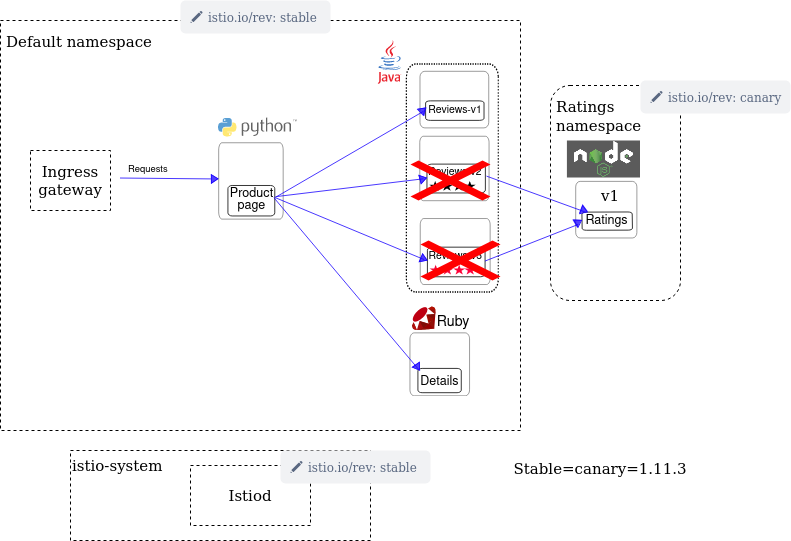
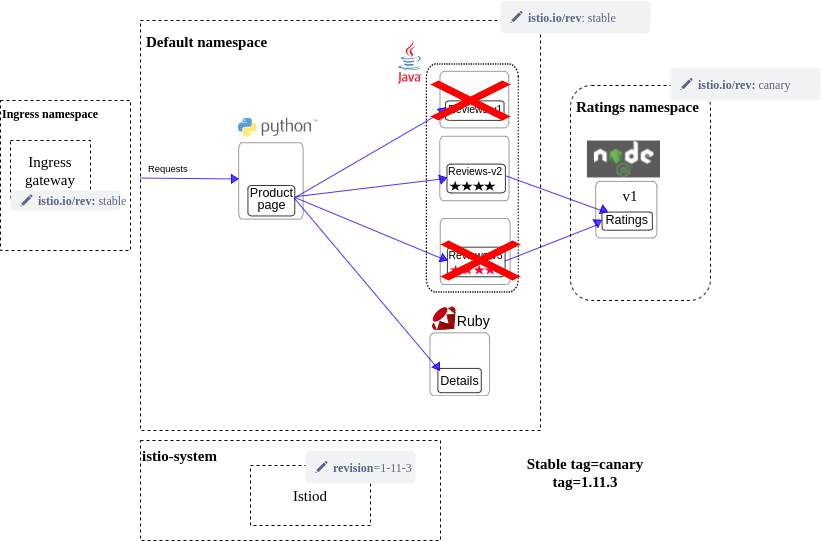
Fix error due to non-split namespace gateway + improve diagram + resilience, something goes wrong with port-forwards in stage 4

diff --git a/readme.md b/readme.md
@@ -24,7 +24,7 @@ the productpage, reviews and ratings should be accessible at `localhost:9080/pro
 the steps to run through are threefold:
 
 you can run:
-`make workloads-phase1` which will cascade down the chain to setup the initial view illustrated above.
+`make phase1` which will cascade down the chain to setup the initial view illustrated above.
 
 To start checking if there is any response you can run:
 `make check-app` and `make port-forward` in a separate panel/tab to be periodically checking the status of the app
@@ -74,3 +74,18 @@ you can always do this in future cleanly.
 The state looks like:
 
 ![bookinfo setup](bookinfo-phase4.png)
+
+
+Caveats:
+
+1) Always make sure that your namespace level labels do not overwrite the ones set on particular deployments,
+this means for example that we absolutely must have an ingress gateway in an alternate namespace as the stable tagged namespaces
+otherwise when setting canaries the desired injection will not happen on gateway!
+
+It is generally regarded as good practice to have ingress gateway split from regular workloads for isolation.
+
+2) This demo uses only http, in a real deployment you need to ensure your new gateway uses a compatible root or manually
+load the previous istiod root bundle when installing the new istiod version.
+
+3) We do the switch over as a one off at the service level, it is possible to do the exact same procedure and use weighted dns 
+entries or other loadbalancing to switch between two distinct services, which would be even more granular process.
